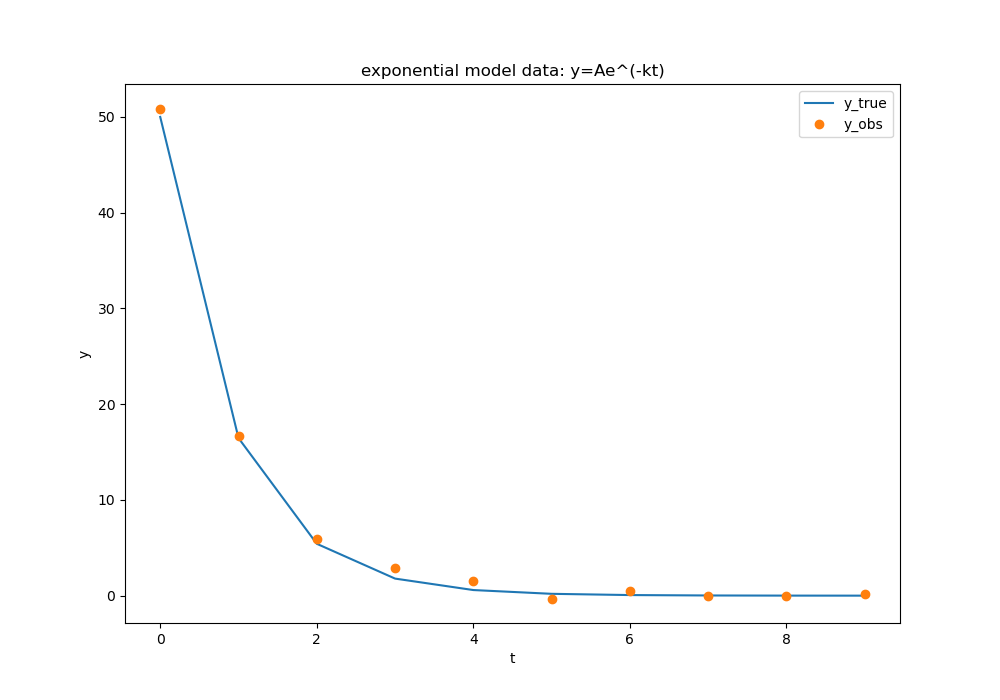
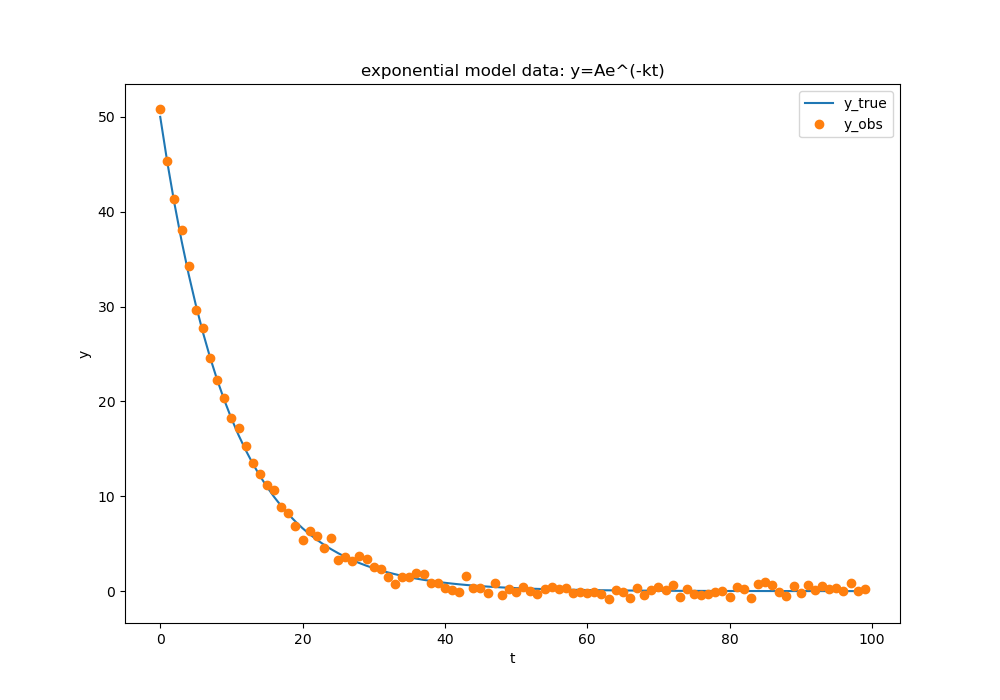
update

diff --git a/pyGridSampler/grid_sampler.py b/pyGridSampler/grid_sampler.py
@@ -105,9 +105,8 @@ class GridSampler:
         grid_resolution, data_size, grid, x_spacing, log_likelihoods, rel_prob, weights, ess = self.initialize(init_grid_resolution, init_data_size, ess_min, n_processes, max_iter)
         
         # remove low probability samples
-        print(f'size before reduction: {np.shape(grid)[0]}')
         grid = gt.reduce_grid_points(grid,weights,delta) 
-        print(f'size after reduction: {np.shape(grid)[0]}')
+     
 
         # iterate through remaining data (i.e. data tempering)
         data_tempering_index = data_size-1
@@ -116,24 +115,21 @@ class GridSampler:
             data_tempering_index = i+1  
             args = self.args_list[data_tempering_index]
 
-            print(f'size before addition: {np.shape(grid)[0]}')
             #x_spacing = gt.update_x_spacing(x_spacing,2)  # reduce spacing by 2
             grid = gt.add_grid_points(grid, self.x_bounds, self.x_shifts, x_spacing)  # expand and pack
             log_likelihoods, rel_prob, weights, ess = gt.eval_grid_points(grid, self.func, args, n_processes) 
-            print(f'size after addition: {np.shape(grid)[0]}')
     
             # ensure ess is high enough for added datapoint
             iter = 0
             while ess<ess_min and iter < max_iter:
+                print(f'refining')
                 x_spacing = gt.update_x_spacing(x_spacing,2)  # make grid spacing finer by 2x
                 grid = gt.add_grid_points(grid, self.x_bounds, self.x_shifts, x_spacing)  # expand and pack
                 log_likelihoods, rel_prob, weights, ess = gt.eval_grid_points(grid, self.func, args, n_processes) 
                 iter = iter + 1      
             
             # remove low probability grid points
-            print(f'size before reduction: {np.shape(grid)[0]}')
             grid = gt.reduce_grid_points(grid,weights,delta)
-            print(f'size after reduction: {np.shape(grid)[0]}')
             pbar.set_description(f"Processing: data_size={data_tempering_index+1}, grid_resolution={grid_resolution}, n_grid_points={np.shape(grid)[0]}, ESS={ess}")
         return  grid_resolution, data_size, grid, x_spacing, log_likelihoods, rel_prob, weights, ess 
 

diff --git a/example/2d_example.py b/example/2d_example.py
@@ -65,7 +65,7 @@ if __name__ == "__main__":
     np.random.seed(0)
     k_true = 5
     sigma_true = 0.5
-    t_full = np.linspace(0, 2, 10)
+    t_full = np.linspace(0, 2, 100)
 
     y_true= 50*np.exp(-k_true*t_full)
     x_truths = [k_true, sigma_true]
@@ -88,7 +88,7 @@ if __name__ == "__main__":
     args_list = create_tempering_list([y_obs, t_full])
     
     init_data_size = 2 # use 2 data points initially
-    init_grid_resolution = 100 # 20 points per parameter -> total grid size 20^n_dim points
+    init_grid_resolution = 200 # n points per parameter -> total grid size =  n^n_dim points
     ess_min = 1000  # target effective size threshold. larger ess_min --> denser grid 
     delta = 0.05 # keep smallest set of grid points whose weights sum to 1-delta. larger delta --> remove more gridpoints
 
